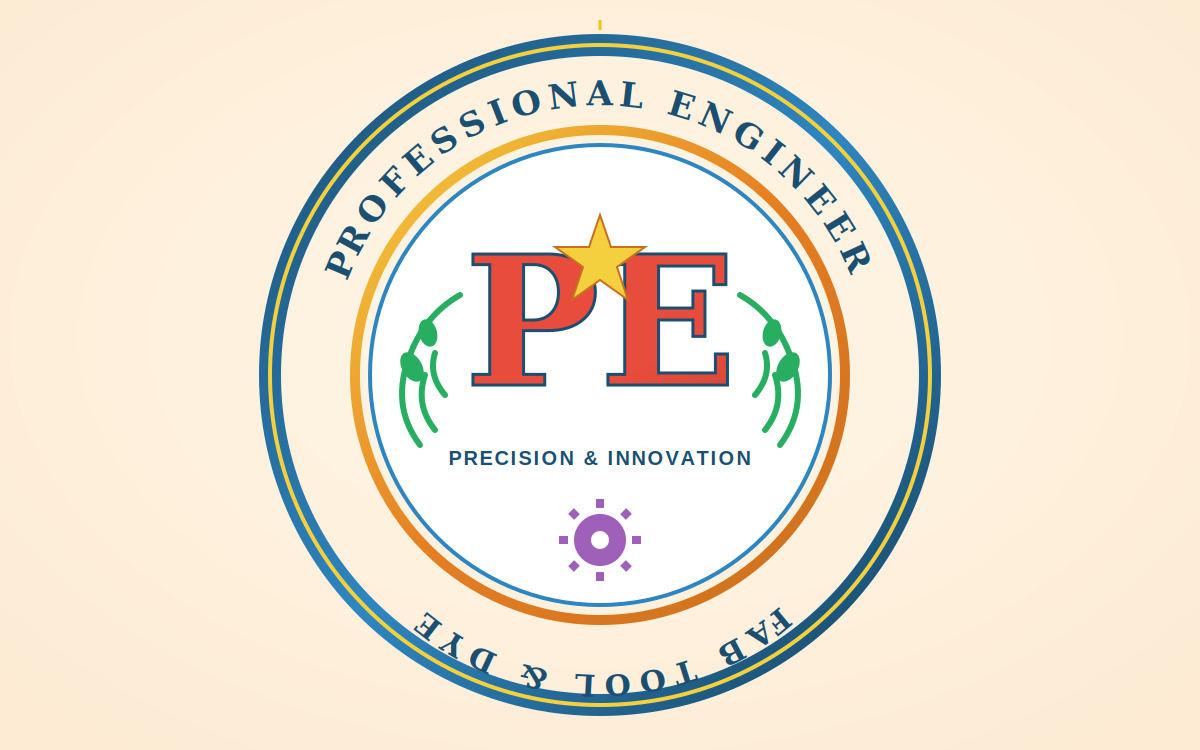
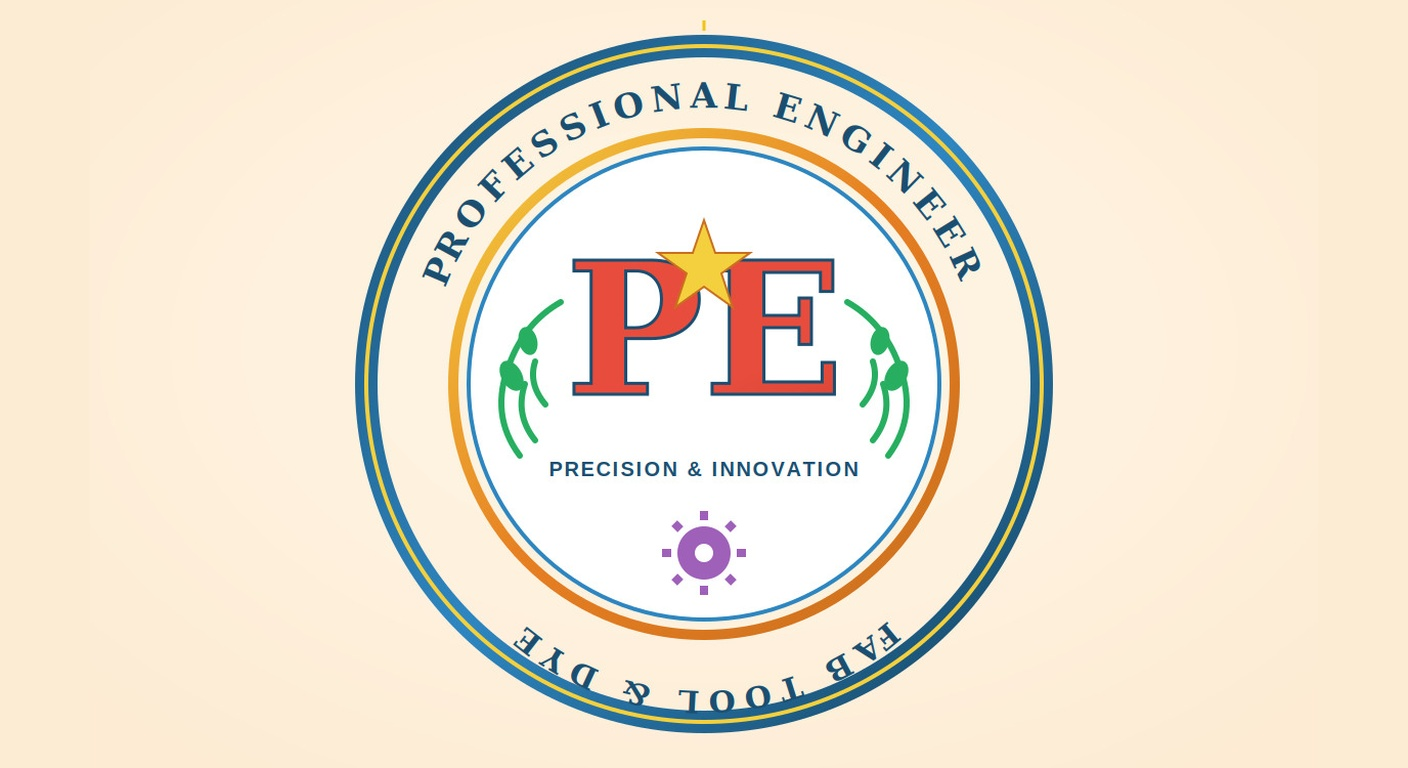
edit views and images

Changed region(s): [[0.2158, 0.0307, 0.8017, 0.9507], [0.4625, 0.6747, 0.5242, 0.7667]]

diff --git a/app/models/project.rb b/app/models/project.rb
@@ -2,8 +2,17 @@ class Project < ApplicationRecord
   belongs_to :service
   #Amol commented out following line, using static images in assets/images folder for now. Will use active storage later.
   #has_one_attached :image
+
+  before_validation :generate_slug, if: -> { slug.blank? && title.present? }
+  validates :slug, presence: true, uniqueness: true
+
   def to_param
     slug
   end
-  
+
+  private
+
+  def generate_slug
+    self.slug = title.parameterize
+  end
 end

diff --git a/db/migrate/20260720221559_add_slug_to_projects.rb b/db/migrate/20260720221559_add_slug_to_projects.rb
@@ -1,0 +1,6 @@
+class AddSlugToProjects < ActiveRecord::Migration[8.1]
+  def change
+    add_column :projects, :slug, :string
+    add_index :projects, :slug, unique: true
+  end
+end

diff --git a/db/schema.rb b/db/schema.rb
@@ -10,7 +10,7 @@
 #
 # It's strongly recommended that you check this file into your version control system.
 
-ActiveRecord::Schema[8.1].define(version: 2026_07_13_011445) do
+ActiveRecord::Schema[8.1].define(version: 2026_07_20_221559) do
   create_table "active_storage_attachments", force: :cascade do |t|
     t.bigint "blob_id", null: false
     t.datetime "created_at", null: false
@@ -83,9 +83,11 @@ ActiveRecord::Schema[8.1].define(version: 2026_07_13_011445) do
     t.string "image_filename"
     t.date "project_data"
     t.integer "service_id", null: false
+    t.string "slug"
     t.string "title"
     t.datetime "updated_at", null: false
     t.index ["service_id"], name: "index_projects_on_service_id"
+    t.index ["slug"], name: "index_projects_on_slug", unique: true
   end
 
   create_table "services", force: :cascade do |t|